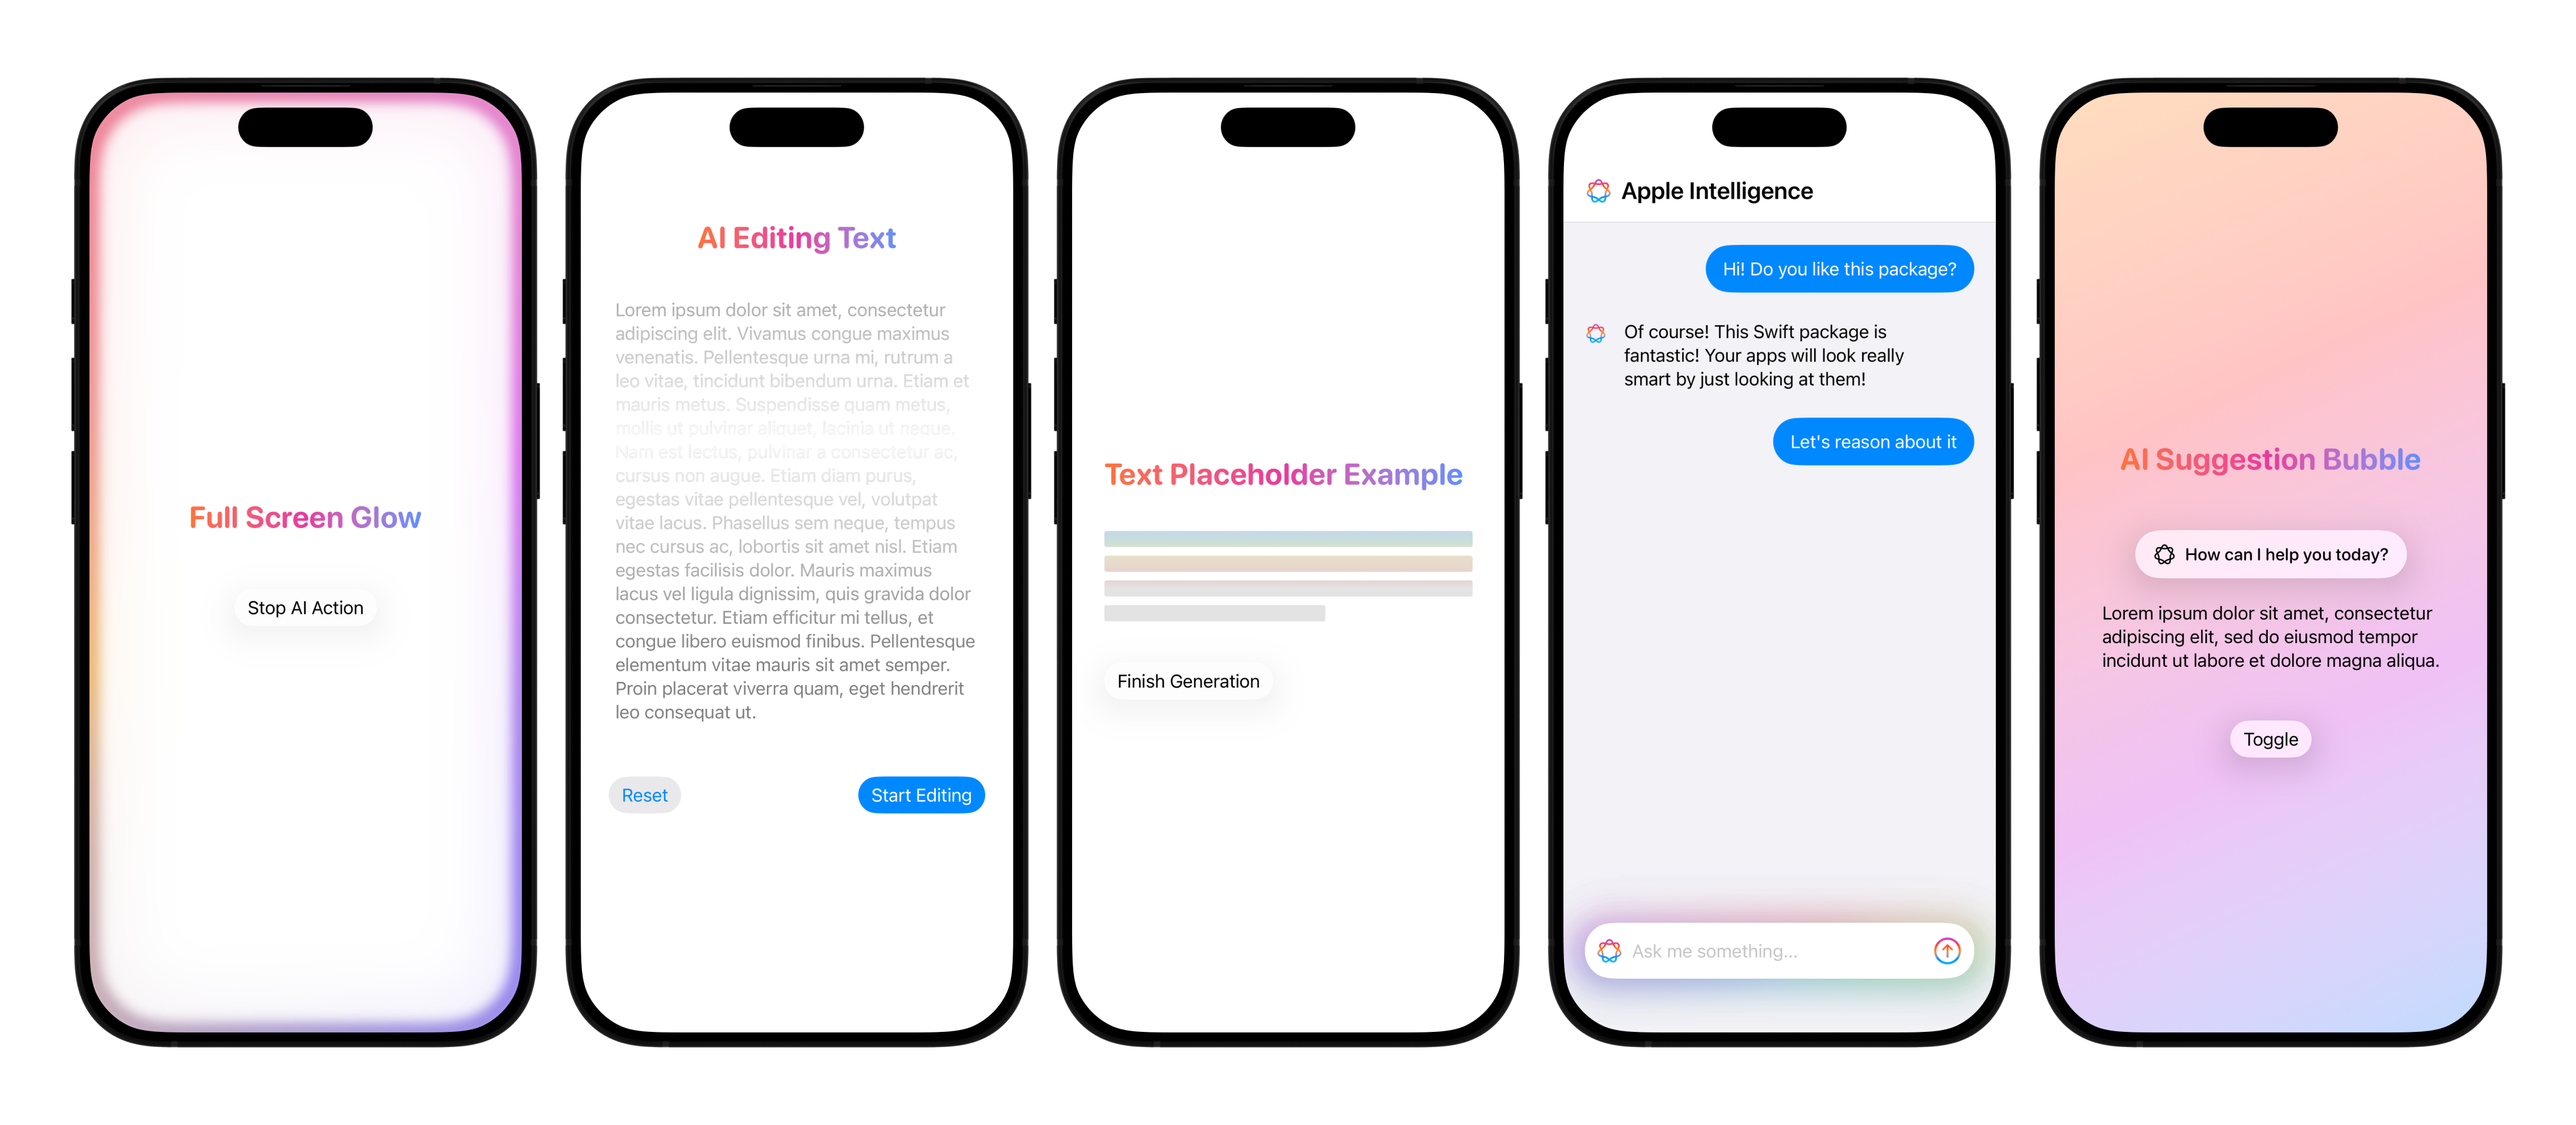
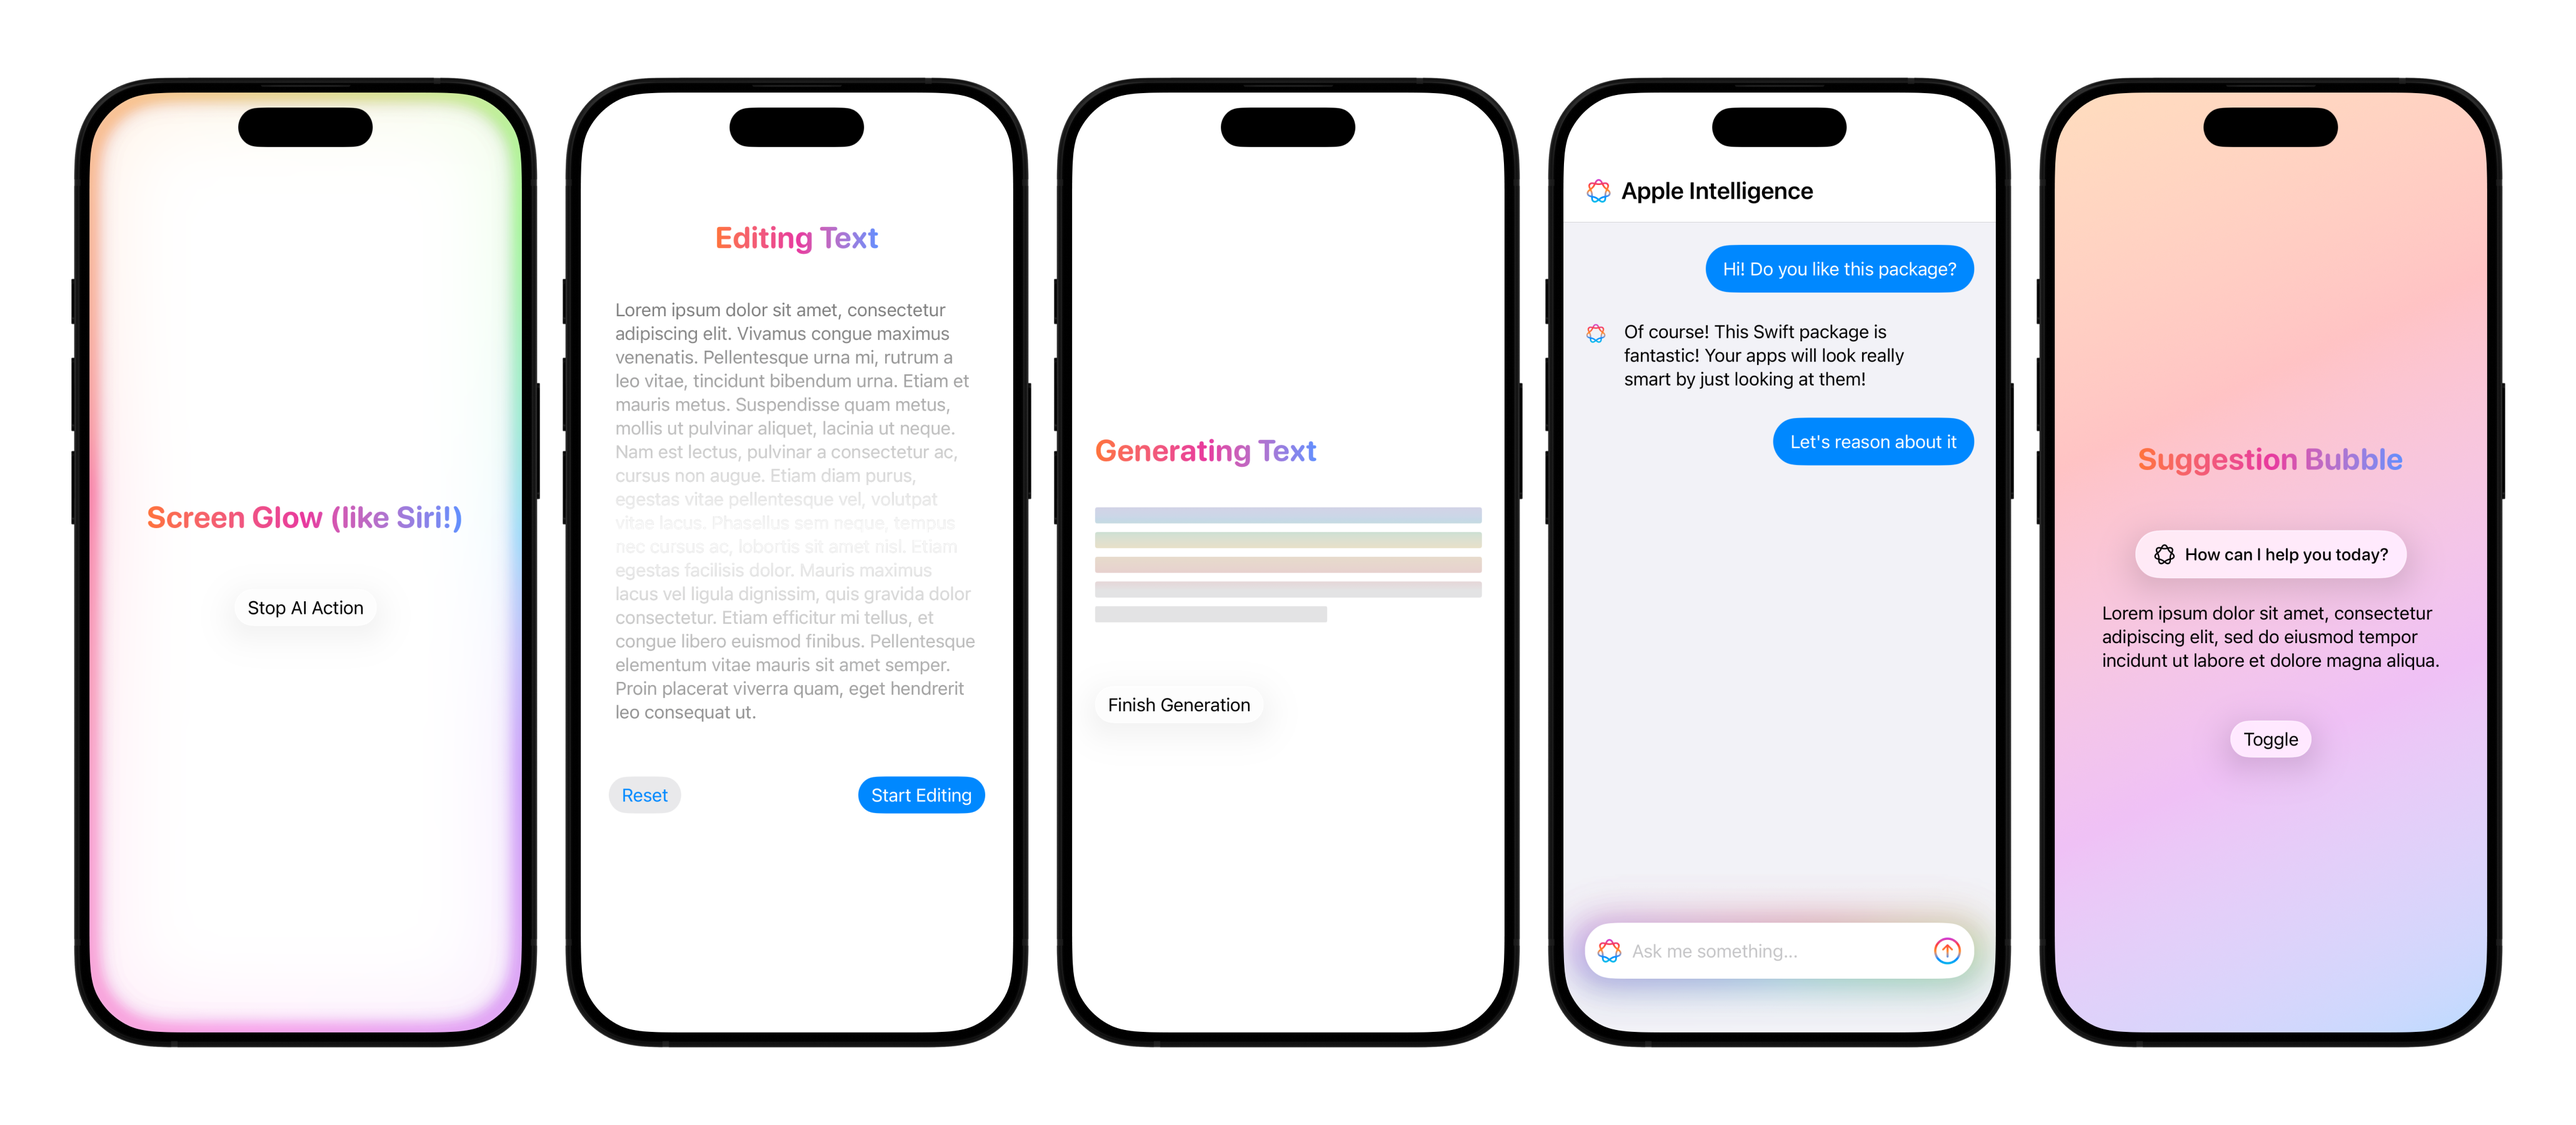
Updated preview image

diff --git a/Sources/AppleIntelligenceForSwiftUI/Examples/EditingTextExample.swift b/Sources/AppleIntelligenceForSwiftUI/Examples/EditingTextExample.swift
@@ -31,10 +31,7 @@ struct EditingTextExample: View {
                 
                 Button("Start Editing") {
                     isEditing = true
-                    DispatchQueue.main.asyncAfter(deadline: .now() + 2.0) {
-                        self.text = "Pariatur laborum labore id anim elit do. Enim sint excepteur et fugiat incididunt sunt. Exercitation deserunt commodo commodo deserunt. Veniam aliquip officia incididunt sit consectetur officia dolore eiusmod proident tempor sit pariatur. Cupidatat magna ad Lorem. Nostrud consectetur dolore ullamco labore."
-                        isEditing = false
-                    }
+                    
                     
                 }.buttonStyle(.borderedProminent)
             }

diff --git a/Sources/AppleIntelligenceForSwiftUI/Examples/ScreenGlowExample.swift b/Sources/AppleIntelligenceForSwiftUI/Examples/ScreenGlowExample.swift
@@ -1,6 +1,13 @@
+//
+//  ScreenGlowExample.swift
+//  AppleIntelligenceForSwiftUI
+//
+//  Created by Alessio Rubicini on 22/09/25.
+//
+
 import SwiftUI
 
-struct FullScreenGlowExample: View {
+struct ScreenGlowExample: View {
     @State private var isActive = false
     
     var body: some View {
@@ -23,5 +30,5 @@ struct FullScreenGlowExample: View {
 }
 
 #Preview {
-    FullScreenGlowExample()
+    ScreenGlowExample()
 } 

diff --git a/Sources/AppleIntelligenceForSwiftUI/Examples/SuggestionExample.swift b/Sources/AppleIntelligenceForSwiftUI/Examples/SuggestionExample.swift
@@ -23,7 +23,7 @@ struct SuggestionExample: View {
                 endPoint: .bottomTrailing
             ).ignoresSafeArea()
             VStack(spacing: 100) {
-                Text("AI Suggestion Bubble")
+                Text("Suggestion Bubble")
                     .aitext()
                     .padding(.top, 40)
                 
